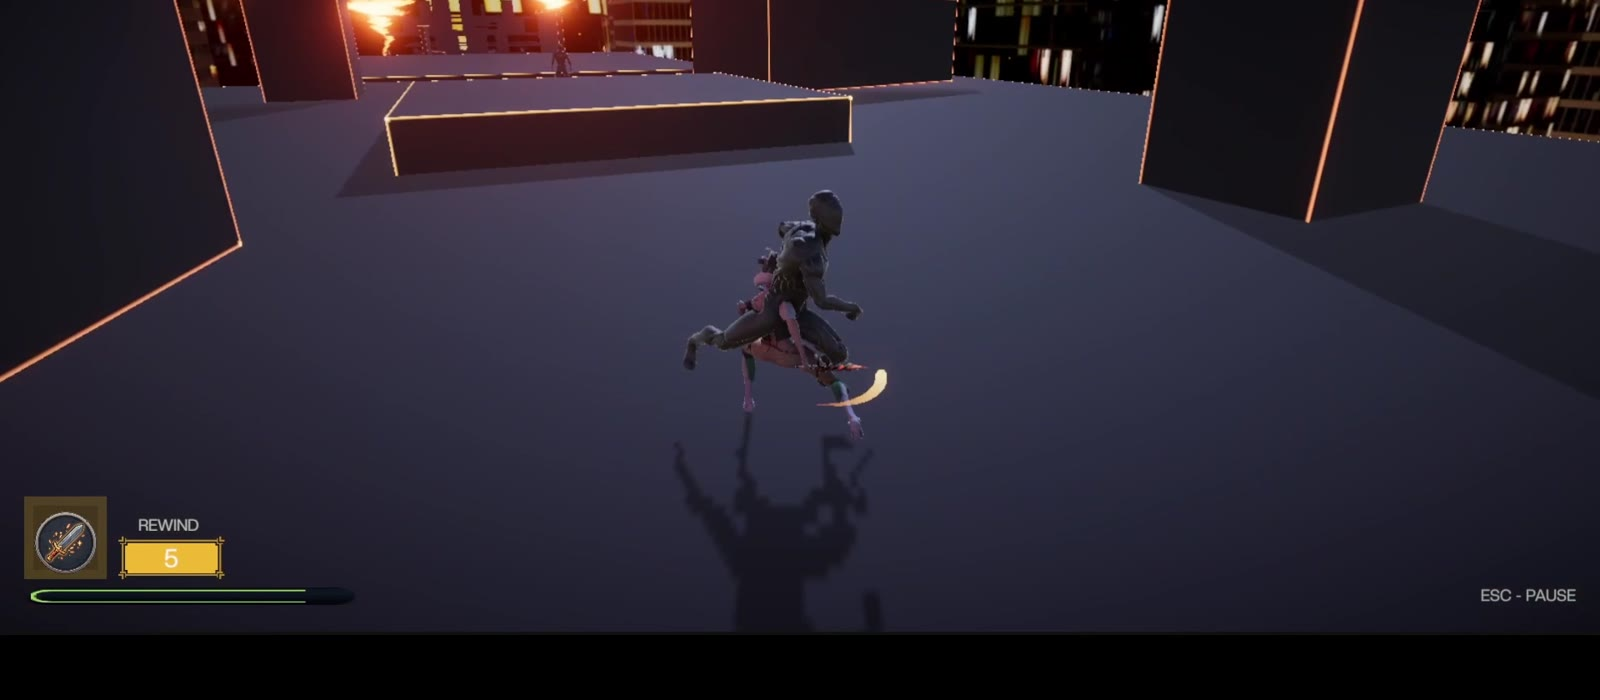
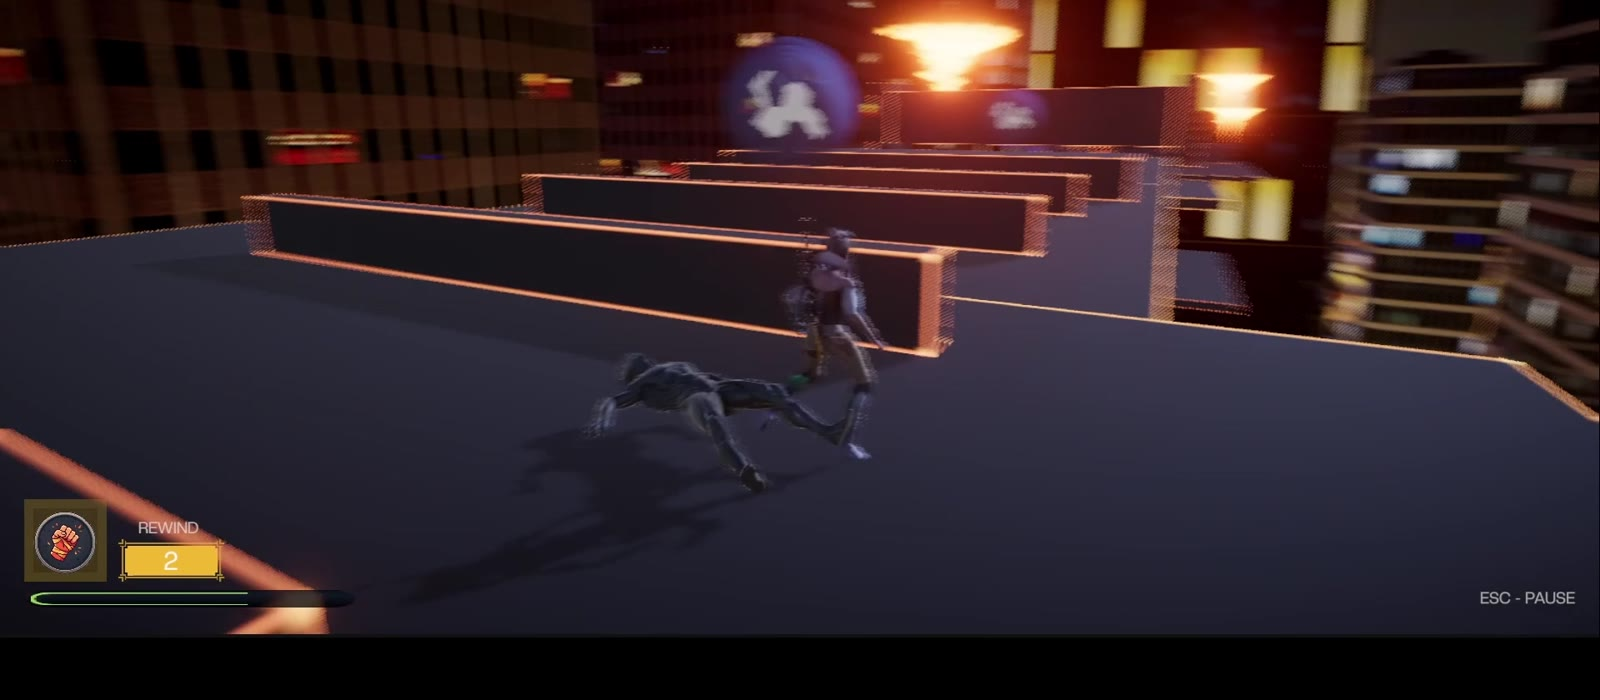
Reorder project cards and refresh Embers Edge action shots
Put Sovereign and Embers Edge before GearShare and Driveon so game work
reads first, and swap two flat gameplay stills for a skyline blast and a
close combat frame.

🤖 Generated with Codebuff

diff --git a/index.html b/index.html
@@ -291,66 +291,9 @@
         <p class="media-count"><i class="fas fa-images"></i> 7 screenshots</p>
       </div>
 
-      <!-- Project 2: GearShare -->
+      <!-- Project 2: Sovereign of the Shattered Veil -->
       <div class="project-card reveal-item tilt-card">
         <div class="project-number">02</div>
-        <div class="project-accent"></div>
-        <div class="project-header">
-          <h3>GearShare</h3>
-          <span class="project-date">2026</span>
-        </div>
-        <p class="project-type">Peer-to-Peer Equipment Rental Marketplace · Flutter, Firebase, Supabase</p>
-        <div class="project-tech-stack">
-          <span class="tech-badge">Flutter</span>
-          <span class="tech-badge">Firebase</span>
-          <span class="tech-badge">Supabase</span>
-          <span class="tech-badge">Cloud Functions</span>
-          <span class="tech-badge">FCM</span>
-        </div>
-        <ul class="project-desc">
-          <li>Built a full-stack mobile marketplace with Firebase Auth and automated OCR-based CNIC identity verification via Google ML Kit.</li>
-          <li>Implemented a dual-database architecture (Cloud Firestore for real-time rental/status streams, Supabase Storage for media) with FCM + Cloud Functions push notifications and trust &amp; safety logic (deposits, insurance, verified "Previous Renter" badges).</li>
-        </ul>
-        <div class="project-media">
-          <img src="Projects/GearShearScreenshots/home-dark.png" alt="GearShare home dark" class="media-thumb" onclick="openLightbox(this)">
-          <img src="Projects/GearShearScreenshots/home-light.png" alt="GearShare home light" class="media-thumb" onclick="openLightbox(this)">
-          <img src="Projects/GearShearScreenshots/login-page.png" alt="GearShare login" class="media-thumb" onclick="openLightbox(this)">
-          <img src="Projects/GearShearScreenshots/browse-page.png" alt="GearShare browse" class="media-thumb" onclick="openLightbox(this)">
-          <img src="Projects/GearShearScreenshots/item-listing.png" alt="GearShare item listing" class="media-thumb" onclick="openLightbox(this)">
-          <img src="Projects/GearShearScreenshots/listing-page.png" alt="GearShare listing page" class="media-thumb" onclick="openLightbox(this)">
-          <img src="Projects/GearShearScreenshots/add-item.png" alt="GearShare add item" class="media-thumb" onclick="openLightbox(this)">
-          <img src="Projects/GearShearScreenshots/profile-page.png" alt="GearShare profile" class="media-thumb" onclick="openLightbox(this)">
-        </div>
-        <p class="media-count"><i class="fas fa-images"></i> 8 screenshots</p>
-      </div>
-
-      <!-- Project 3: Driveon (placeholder) -->
-      <div class="project-card reveal-item tilt-card">
-        <div class="project-number">03</div>
-        <div class="project-accent"></div>
-        <div class="project-header">
-          <h3>Driveon</h3>
-          <span class="project-date">2026</span>
-        </div>
-        <p class="project-type">Mobile Driving Game · Unity</p>
-        <div class="project-tech-stack">
-          <span class="tech-badge">Unity</span>
-          <span class="tech-badge">C#</span>
-        </div>
-        <ul class="project-desc">
-          <li>Developed a mobile driving game spanning three distinct modes — stunt courses, open city driving, and a dedicated drift map — each with tuned vehicle handling.</li>
-        </ul>
-        <div class="project-media placeholder-media">
-          <div class="media-placeholder">
-            <i class="fas fa-car"></i>
-            <span>Media coming soon</span>
-          </div>
-        </div>
-      </div>
-
-      <!-- Project 4: STSHV -->
-      <div class="project-card reveal-item tilt-card">
-        <div class="project-number">04</div>
         <div class="project-accent"></div>
         <div class="project-header">
           <h3>Sovereign of the Shattered Veil</h3>
@@ -385,9 +328,9 @@
         </div>
       </div>
 
-      <!-- Project 5: Embers Edge -->
+      <!-- Project 3: Embers Edge -->
       <div class="project-card reveal-item tilt-card">
-        <div class="project-number">05</div>
+        <div class="project-number">03</div>
         <div class="project-accent"></div>
         <div class="project-header">
           <h3>Embers Edge</h3>
@@ -423,6 +366,63 @@
           <p class="media-count video-label"><i class="fas fa-play-circle"></i> Trailer</p>
         </div>
         <a class="project-link" href="https://github.com/HasnainAli-12/vVv" target="_blank" rel="noopener"><i class="fab fa-github"></i> Source code on GitHub</a>
+      </div>
+
+      <!-- Project 4: GearShare -->
+      <div class="project-card reveal-item tilt-card">
+        <div class="project-number">04</div>
+        <div class="project-accent"></div>
+        <div class="project-header">
+          <h3>GearShare</h3>
+          <span class="project-date">2026</span>
+        </div>
+        <p class="project-type">Peer-to-Peer Equipment Rental Marketplace · Flutter, Firebase, Supabase</p>
+        <div class="project-tech-stack">
+          <span class="tech-badge">Flutter</span>
+          <span class="tech-badge">Firebase</span>
+          <span class="tech-badge">Supabase</span>
+          <span class="tech-badge">Cloud Functions</span>
+          <span class="tech-badge">FCM</span>
+        </div>
+        <ul class="project-desc">
+          <li>Built a full-stack mobile marketplace with Firebase Auth and automated OCR-based CNIC identity verification via Google ML Kit.</li>
+          <li>Implemented a dual-database architecture (Cloud Firestore for real-time rental/status streams, Supabase Storage for media) with FCM + Cloud Functions push notifications and trust &amp; safety logic (deposits, insurance, verified "Previous Renter" badges).</li>
+        </ul>
+        <div class="project-media">
+          <img src="Projects/GearShearScreenshots/home-dark.png" alt="GearShare home dark" class="media-thumb" onclick="openLightbox(this)">
+          <img src="Projects/GearShearScreenshots/home-light.png" alt="GearShare home light" class="media-thumb" onclick="openLightbox(this)">
+          <img src="Projects/GearShearScreenshots/login-page.png" alt="GearShare login" class="media-thumb" onclick="openLightbox(this)">
+          <img src="Projects/GearShearScreenshots/browse-page.png" alt="GearShare browse" class="media-thumb" onclick="openLightbox(this)">
+          <img src="Projects/GearShearScreenshots/item-listing.png" alt="GearShare item listing" class="media-thumb" onclick="openLightbox(this)">
+          <img src="Projects/GearShearScreenshots/listing-page.png" alt="GearShare listing page" class="media-thumb" onclick="openLightbox(this)">
+          <img src="Projects/GearShearScreenshots/add-item.png" alt="GearShare add item" class="media-thumb" onclick="openLightbox(this)">
+          <img src="Projects/GearShearScreenshots/profile-page.png" alt="GearShare profile" class="media-thumb" onclick="openLightbox(this)">
+        </div>
+        <p class="media-count"><i class="fas fa-images"></i> 8 screenshots</p>
+      </div>
+
+      <!-- Project 5: Driveon (placeholder) -->
+      <div class="project-card reveal-item tilt-card">
+        <div class="project-number">05</div>
+        <div class="project-accent"></div>
+        <div class="project-header">
+          <h3>Driveon</h3>
+          <span class="project-date">2026</span>
+        </div>
+        <p class="project-type">Mobile Driving Game · Unity</p>
+        <div class="project-tech-stack">
+          <span class="tech-badge">Unity</span>
+          <span class="tech-badge">C#</span>
+        </div>
+        <ul class="project-desc">
+          <li>Developed a mobile driving game spanning three distinct modes — stunt courses, open city driving, and a dedicated drift map — each with tuned vehicle handling.</li>
+        </ul>
+        <div class="project-media placeholder-media">
+          <div class="media-placeholder">
+            <i class="fas fa-car"></i>
+            <span>Media coming soon</span>
+          </div>
+        </div>
       </div>
 
       <!-- Scroll to top -->
